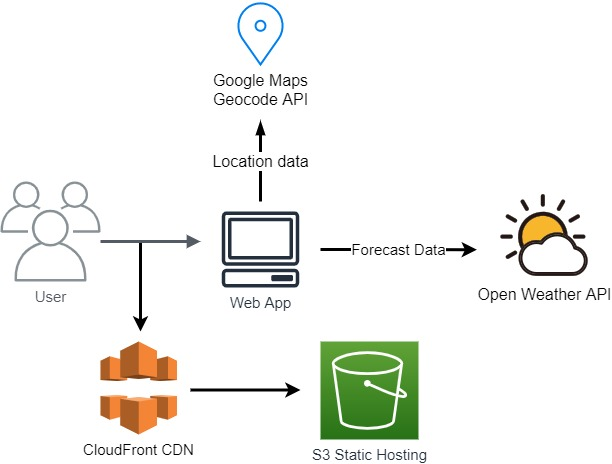
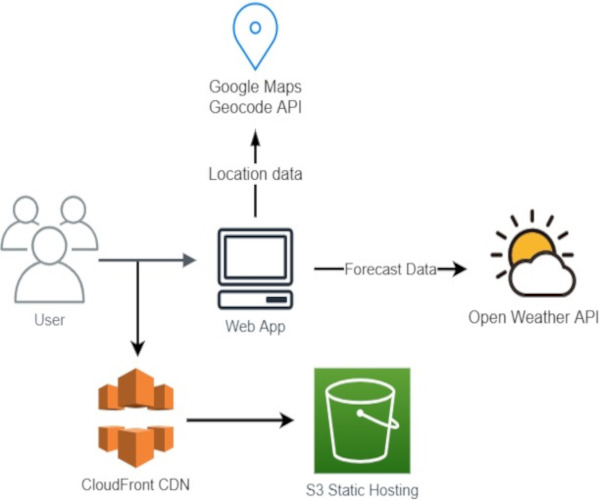
fix

diff --git a/src/Components/Business.js b/src/Components/Business.js
@@ -13,7 +13,7 @@ export default function Business() {
           </div></Grid>
 
           <Grid item xs={12} md={6}><div className='Diagram'>
-        <img width={'400px'} alt='' height={'800px'} src={ServerLess}></img> 
+        <img width={'300px'} alt='' height={'600px'} src={ServerLess}></img> 
         </div></Grid>
         
         
